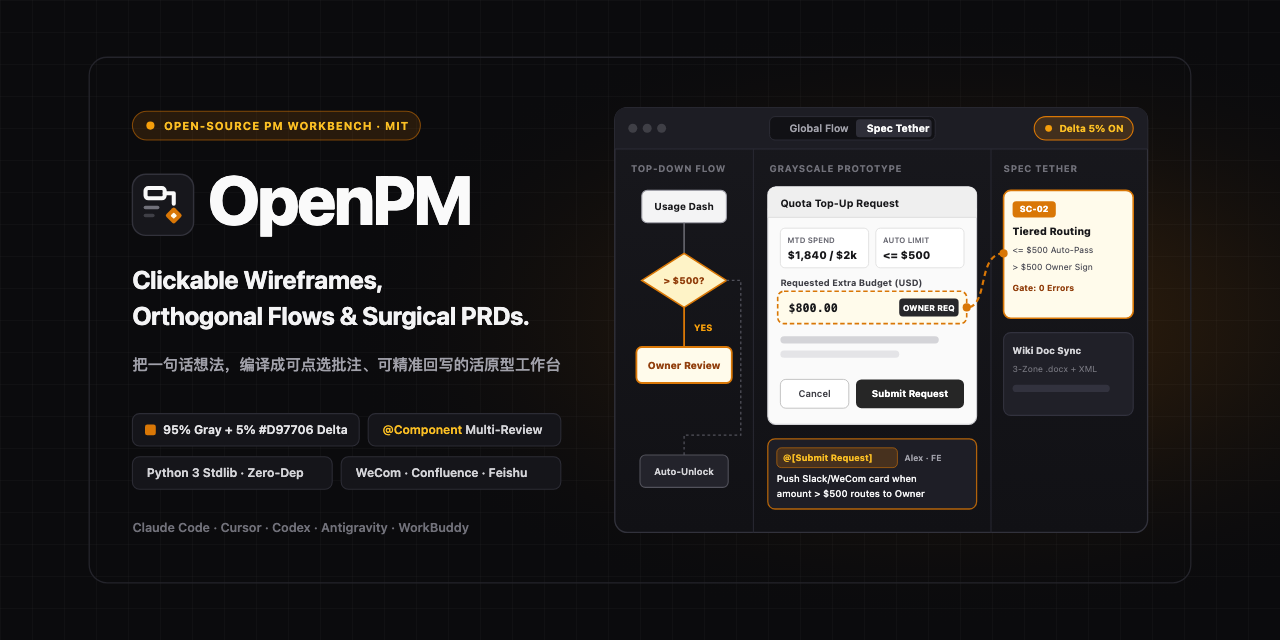
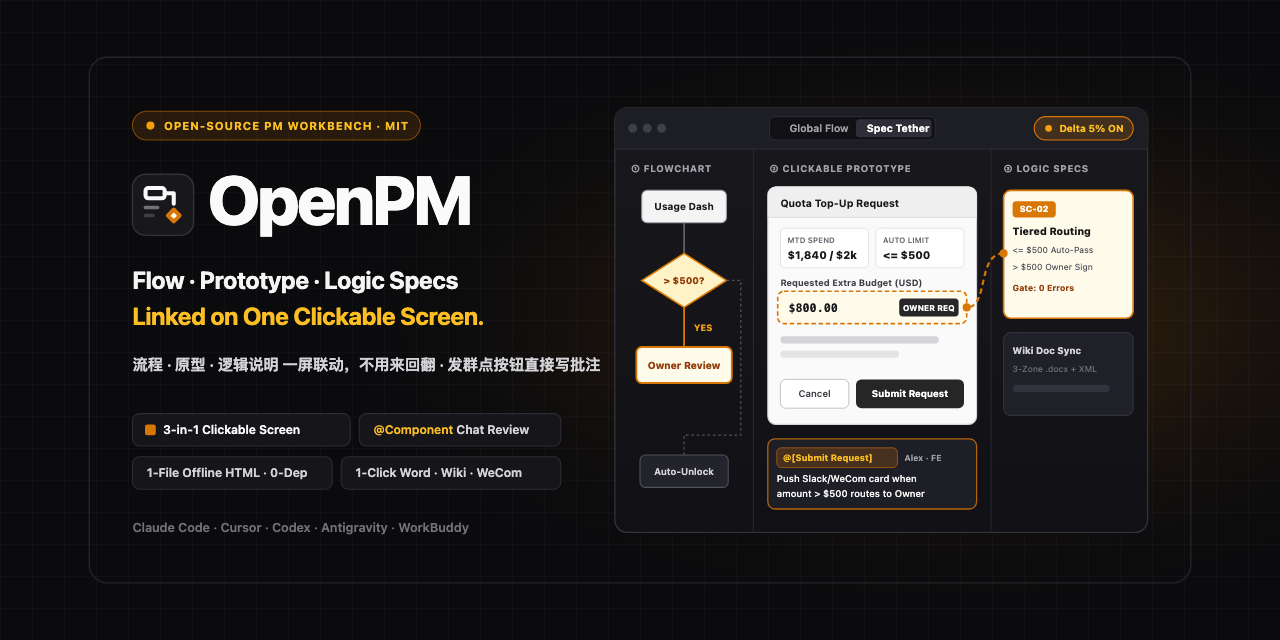
docs(positioning): center all messaging on 3-in-1 linked Flowchart + Clickable Prototype + Logic Specs

diff --git a/index.html b/index.html
@@ -221,14 +221,14 @@ html[data-theme="dark"] .tips code { background: #1f1f25; color: #fbbf24; }
     </div>
   </div>
 
-  <h1 data-lang="en">Clickable Wireframes, Orthogonal Flows, Surgical PRDs.</h1>
-  <h1 data-lang="zh">把一句话想法，编译成可点选评审的活原型工作台</h1>
+  <h1 data-lang="en">Flowchart · Clickable Prototype · Logic Specs — Linked on One Screen.</h1>
+  <h1 data-lang="zh">流程图 · 可点击原型 · 逻辑说明，一屏联动，不用来回翻。</h1>
 
   <p class="sub" data-lang="en">
-    Every workbench below was deterministically compiled by OpenPM into a standalone HTML file with zero external dependencies. Open any demo to test the 95% monochrome wireframe + 5% #D97706 delta toggle, cubic Bezier spec tethers, and inline @[Component] review pills.
+    Stop flipping between 3,000-word docs, Figma tabs, and flowcharts. Every demo below is a single offline HTML file compiled by OpenPM — click any flow node to switch screens, test live condition branches, connect spec cards straight to buttons, and click any UI control to pin @[Component] review notes.
   </p>
   <p class="sub" data-lang="zh">
-    告别“几千字纯文字盲盒、开会靠嘴指认按钮、让 AI 改一处崩全篇”。以下 4 个工作台均由 OpenPM 确定性编译为纯离线单文件 HTML，点击即可直接在浏览器体验。
+    告别“左边翻飞书文档、中间找流程图、右边切原型”的割裂评审。以下 4 套样板均为 OpenPM 编译生成的单文件离线 HTML —— 点左边流程节点自动切页面、拨动条件跑通分支、点右边规则直接连线指认按钮、点界面控件就能挂 @[组件] 提意见。点击任一卡片直接上手体验：
   </p>
 
   <div class="install-bar">

diff --git a/README.md b/README.md
@@ -33,18 +33,18 @@
 
 ---
 
-## Why Prompting an LLM for a PRD Breaks in Real Teams
+## Why Traditional Docs & Raw AI Prompts Break in Spec Reviews
 
-Asking a chat model to "write a PRD" produces 3,000 words of plausible prose that nobody reads in a spec review. Engineers cannot tell what actually changed this sprint, reviewers argue over unnamed buttons in chat threads, and asking the model to revise one rule quietly rewrites three other screens.
+The biggest friction in product spec reviews isn't writing words — it's **tab-flipping and context loss**: scrolling through a 3,000-word doc on the left, hunting for a Figma frame in the middle, and checking a flowchart on the right. Nobody knows which rule governs which button, and asking an LLM to tweak one edge case quietly rewrites three other screens.
 
-OpenPM replaces freeform PRD generation with a deterministic `spec-v2` compiler and static preflight gate:
+OpenPM compiles rough ideas into **one standalone offline HTML file where Flowchart, Clickable Prototype, and Logic Specs stay linked on a single screen**:
 
-| Team Bottleneck | Raw LLM Chat Prompts | OpenPM Deterministic Workbench |
+| Real Team Friction | Separate Docs + Raw LLM Chat | OpenPM 3-in-1 Linked Workbench |
 | :--- | :--- | :--- |
-| **Scope blindness** | Walls of prose mix existing product behavior with new sprint scope. | **95% Monochrome + 5% `#D97706` Engineering Delta**: Grayscale `wt-*` wireframes push legacy UI into the background; amber highlights mark only new/modified flow nodes and anchored controls. |
-| **Ambiguous design crits** | Teammates type "change the button under the second card" in Slack; reviewers contradict each other. | **Multi-Reviewer `@[Component]` Pills + Conflict Detection**: Reviewers click any control in `walkthrough.html` to insert `@[Button]`, sign their name, export `.jsonl`, and flag conflicting feedback before edits happen. |
-| **Full-doc regressions** | Asking AI to tweak one validation rule rewrites unrelated sections and drops edge cases. | **Surgical Write-back + Version Snapshots**: Updates touch only the targeted `prd.md` section and `pages/*.html` fragment, backed by immutable `versions/vN` snapshots and `preflight_check.py`. |
-| **Manual wiki handoff & stagnant prompts** | Copy-pasting screenshots into docs; repeating the same formatting corrections every week. | **Native Wiki Push + Blind A/B Self-Evolution**: Publishes side-by-side UI + spec tables to a native WeCom online doc, Confluence (validated Storage XML), Feishu, or Obsidian, while a randomized double-blind A/B judge records your taste into `evals/taste-profile.md`. |
+| **Constant tab-flipping** | PRD prose, Figma frames, and flowcharts live in 3 separate tools; meetings stall over "the second button on the top right." | **Flow · Clickable UI · Logic Specs on One Screen**: Click any flow node to switch the live clickable screen and its rules; toggle condition variables to walk live `Yes/No` branches, switch `Web / App 375px` views, and draw live curves from spec cards straight to buttons. |
+| **Messy async reviews & conflicting edits** | Hosting preview servers is tedious; Slack feedback gets lost or frontend and backend contradict each other on the same control. | **1-File HTML Chat Review + Conflict Interception**: Drop `walkthrough.html` into Slack/WeCom; teammates click any UI button to pin `@[Component]` notes. Conflicting notes on the same control pause automatically for PM sign-off. |
+| **AI rewrites break other screens & hide sprint scope** | Asking AI to tweak one rule regenerates the whole doc; engineers can't tell new sprint scope apart from legacy screens. | **Surgical Local Write-back + 1-Click Sprint Delta**: Edits touch only the targeted control and PRD section (with `v1/v2` rollback snapshots). Pulls legacy Wiki docs to diff baselines and highlights only current-sprint changes on demand. |
+| **Hours wasted pasting screenshots into Wiki** | Copy-pasting dozens of screenshots into Word or Confluence tables after sign-off; repeating the same prompt fixes next week. | **1-Click Side-by-Side Word/Wiki Export + Self-Evolving Taste**: Auto-captures clean Web + App screenshots into structured side-by-side `.docx`, Confluence XML, or WeCom docs, while a blind A/B judge locks your recurring preferences into `evals/taste-profile.md`. |
 
 ---
 
@@ -79,24 +79,24 @@ Safely upgrade OpenPM from https://github.com/SilasSolivagus/OpenPM using python
 
 ---
 
-## Product Mechanics Inside `walkthrough.html`
+## Core Capabilities Inside `walkthrough.html`
 
 Every compiled `walkthrough.html` is a zero-dependency single HTML file you can drop into Slack, WeCom, or email and open offline in any browser.
 
-### 1. Three-Pane Sync: Orthogonal TD Flow + 95% Monochrome Wireframe + 5% `#D97706` Delta
-Click any flow node or decision diamond on the left to switch the live wireframe state in the center and inspect branch rules on the right. Toggle **Delta Highlight** in the top bar to isolate every changed node and UI control in `#D97706` amber:
+### 1. Flowchart · Clickable Prototype · Logic Specs — Linked on One Screen
+Click any flow node on the left to switch the interactive UI prototype in the center (including instant `Web / App 375px` and empty/error state toggles) and view its exact rules on the right. Flip condition switches to test live `Yes/No` branches on the spot, or toggle **Delta Highlight** to isolate current-sprint changes from legacy screens:
 
-![Three-pane sync and 5% Amber engineering delta](./assets/shot-flow-delta.png)
+![Flowchart, clickable prototype, and logic specs linked on one screen](./assets/shot-flow-delta.png)
 
-### 2. Spec Tether Mode: Cubic Bezier Links from Rules to Controls
-Switch to **Spec Delta** view and click any requirement card on the right. OpenPM jumps to the target screen and draws a `#D97706` dashed cubic Bezier curve directly to the anchored input, modal, or button:
+### 2. Visual Spec Tethers: Point Every Rule Straight to Its Button
+Switch to **Spec Delta** mode and click any requirement card on the right. OpenPM jumps to the target screen and draws a live curve directly to the exact input, modal, or button it governs — zero "second button on the top right" guesswork:
 
-![Cubic Bezier tether from spec card to UI control](./assets/shot-spec-tether.png)
+![Visual tether connecting a spec rule straight to its UI control](./assets/shot-spec-tether.png)
 
-### 3. Inline `@[Component]` Click-to-Comment & Multi-Reviewer Merge
-Click **+ Add Note**, enter your name and role (for example `Maya - Frontend`), and click any UI element on the wireframe to insert an atomic `@[Component Name]` pill (`Backspace` deletes the whole pill). Export `.jsonl` or `.md` for surgical AI write-back:
+### 3. Click-to-Pin `@[Component]` Reviews & Multi-Reviewer Conflict Guard
+Click **+ Add Note**, enter your name (e.g. `Maya · Frontend`), and click any button or input on the prototype to insert an `@[Component Name]` chip with full state context. Export `.jsonl` to merge team feedback, automatically catch conflicting edits on the same control, and apply surgical write-backs without breaking other screens:
 
-![Inline @component mention composer](./assets/shot-inline-mention.png)
+![Click any UI button to insert an @component review chip](./assets/shot-inline-mention.png)
 
 ---
 
